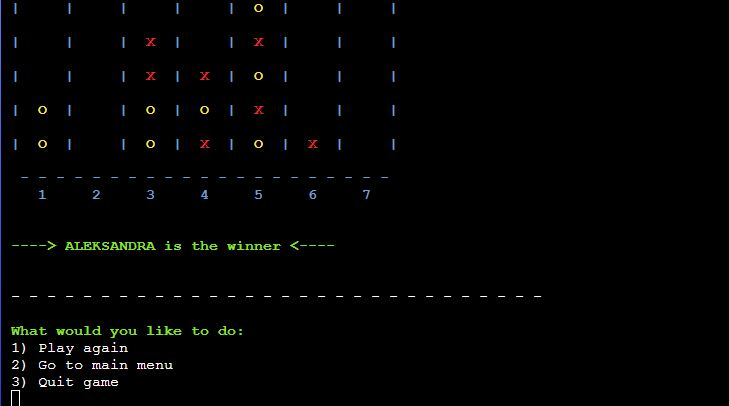
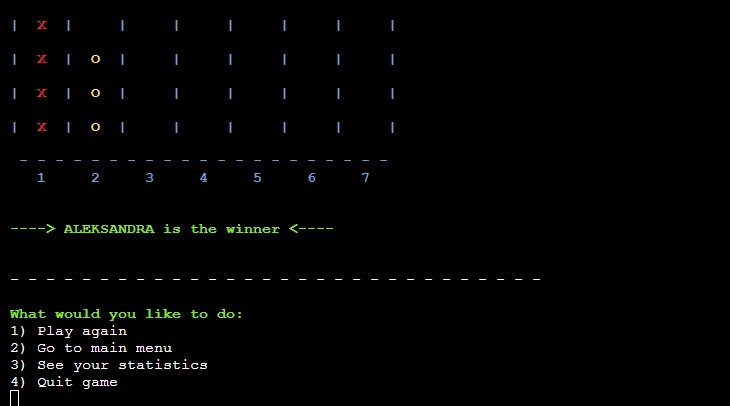
Amend features following addition of score count

diff --git a/README.md b/README.md
@@ -71,7 +71,7 @@ There is no specific audience of this game. However, I would recommend that play
 
 ### User Manual
 
-<details><summary>Click here to view instructions to use</summary>
+<details><summary>Click here to view instructions</summary>
 
 #### Main Menu
 On the main menu, users are presented with an ASCII art rendering of the name 'Connect 4'. Below the welcome graphic there are a couple of options for user to select from.
@@ -135,10 +135,12 @@ The game continues until one of the players connect their four pieces.
 
 When a player wins, a message with their name is shown on the screen.
 
-Players have 3 different options to choose from:
+Players have 4 different options to choose from:
 1. Play again
 2. Go to main menu
-3. Quit game
+3. See your statistics
+4. Quit game
+
 Operation: Input a numeric value and press enter key.
 
 #### Play again
@@ -146,6 +148,9 @@ By selecting this option a new game starts for the same players
 
 #### Go to main menu
 Brings players to the main menu of the program
+
+#### See your statistics
+Display number of games won so far by each logged player.
 
 #### Quit game
 With the guit game option, the user exits the program with a goodbye message.
@@ -166,14 +171,15 @@ With the guit game option, the user exits the program with a goodbye message.
 6. I want to get a feedback when I win the game
 7. I want to be able to play multiple games when I'm logged in
 8. I want a random selection of the player to start a new game
+9. I want to see how many games I've won so far
 
 ### Site Owner
 
-9. I want users to have a positive experience whilst playing the game
-10. I want users to easily select options from the menu
-11. I want user names and emails to be saved to Google Spreadsheet
-12. I want the user to get feedback in case of wrong input
-13. I want data entry to be validated, to guide the user on how to correctly format the input
+10. I want users to have a positive experience whilst playing the game
+11. I want users to easily select options from the menu
+12. I want user names and emails to be saved to Google Spreadsheet
+13. I want the user to get feedback in case of wrong input
+14. I want data entry to be validated, to guide the user on how to correctly format the input
 
 
 [Back to Table Of Contents](#table-of-contents)
@@ -260,7 +266,7 @@ VSCode was used to write the project code using Code Institute template
 - Informs them if the email they input is incorrect or not registered
 - Gives user alternative option to try another email or create a new player
 - If correct, saves their details to Google Spreadsheet
-- User stories covered: 4, 5, 11, 12, 13
+- User stories covered: 4, 5, 12, 13, 14
 
 <details>
     <summary>Log-in Screenshot</summary>
@@ -279,7 +285,7 @@ VSCode was used to write the project code using Code Institute template
 - Validates user input values
 - Informs user if the name they input is incorrect
 - Informs user if the email is already taken and asks for another one
-- User stories covered: 5, 11, 12, 13
+- User stories covered: 5, 12, 13, 14
 
 <details>
     <summary>Sign-up Screenshot</summary>
@@ -295,7 +301,7 @@ VSCode was used to write the project code using Code Institute template
 
 ### Users greeting
 - Displays a greeting message to the user once logged in
-- User stories covered: 3, 9
+- User stories covered: 3, 10
 
 <details>
     <summary>Greeting Screenshot</summary>
@@ -309,7 +315,7 @@ VSCode was used to write the project code using Code Institute template
 - Display warning message of incorrect column selected
 - Provide feedback on who's won the game
 - Gives options to play again after finished game
-- User stories covered: 3, 5, 6, 12, 13
+- User stories covered: 3, 5, 6, 13, 14
 
 <details>
     <summary>Game Screenshot</summary>
@@ -350,6 +356,15 @@ VSCode was used to write the project code using Code Institute template
 #### Go to main menu
 - Brings players to the main menu of the program
 
+#### See your statistics
+- Display number of games won so far by each logged player
+
+<details>
+    <summary>See your statistics Screenshot</summary>
+
+![Statistics](docs/features/statistics.jpg)
+</details>
+
 #### Quit game
 - Exits the program with a goodbye message
 
@@ -362,7 +377,7 @@ VSCode was used to write the project code using Code Institute template
 ### User Input Validation
 - Displays an error message if user input is not in a form that was expected
 - Asks for a new input and provides guidance to user on how to correctly format the input
-- User stories covered: 5, 12, 13
+- User stories covered: 5, 13, 14
 
 <details>
     <summary>Username validation Screenshot</summary>
